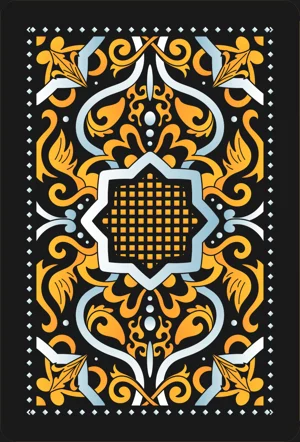
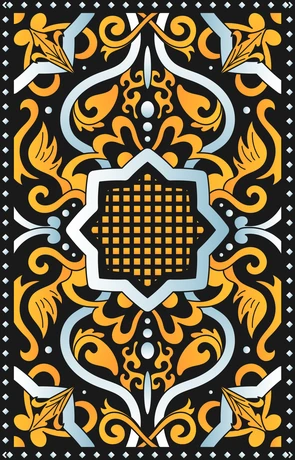
ソリティア: アラベスク黒の模様幅を白に合わせる、キューブ紫→キューブ
Claude-Session: https://claude.ai/code/session_01EiWRAXYbB7FpiyimYy4m7z

diff --git a/solitaire/app.css b/solitaire/app.css
@@ -222,7 +222,7 @@ html[data-back=wave] .bk{background:radial-gradient(circle at 50% 100%,transpare
 html[data-back=red] .bk{background:#fff url(img/back-red.webp) center/90.5% 93.5% no-repeat;box-shadow:0 0 0 1px rgba(0,0,0,.32),0 1px 3px rgba(0,0,0,.3)}
 html[data-back=blue] .bk{background:#fff url(img/back-blue.webp) center/90.5% 93.5% no-repeat;box-shadow:0 0 0 1px rgba(0,0,0,.32),0 1px 3px rgba(0,0,0,.3)}
 html[data-back=ornate] .bk{background:#fff url(img/back-ornate.webp) center/91% 93.5% no-repeat;box-shadow:0 0 0 1px rgba(0,0,0,.32),0 1px 3px rgba(0,0,0,.3)}
-html[data-back=ornateBlack] .bk{background:#1c1c1c url(img/back-ornate-black.webp) center/cover no-repeat;box-shadow:0 0 0 1px rgba(0,0,0,.5),0 1px 3px rgba(0,0,0,.3)}
+html[data-back=ornateBlack] .bk{background:#1c1c1c url(img/back-ornate-black.webp?v=2) center/91% 93.5% no-repeat;box-shadow:0 0 0 1px rgba(0,0,0,.5),0 1px 3px rgba(0,0,0,.3)}
 html[data-back=gangsta] .bk{background:#3a3a3a url(img/back-gangsta.webp) center/86% 90% no-repeat;box-shadow:inset 0 0 0 calc(var(--cw)*.04) #f4f4f2,0 0 0 1px rgba(0,0,0,.45),0 1px 3px rgba(0,0,0,.3)}
 html[data-back=gangsta] .cd .bk::after{display:none}
 html[data-back=floral] .bk{background:#fff url(img/back-floral.webp) center/91% 93.5% no-repeat;box-shadow:0 0 0 1px rgba(0,0,0,.35),0 1px 3px rgba(0,0,0,.3)}

diff --git a/solitaire/index.html b/solitaire/index.html
@@ -11,7 +11,7 @@
 <link rel="preconnect" href="https://fonts.googleapis.com">
 <link rel="preconnect" href="https://fonts.gstatic.com" crossorigin>
 <link href="https://fonts.googleapis.com/css2?family=Cormorant+Garamond:ital,wght@0,600;0,700;1,600&family=Shippori+Mincho+B1:wght@600;800&family=Zen+Kaku+Gothic+New:wght@400;500;700&family=JetBrains+Mono:wght@500;700&family=Bodoni+Moda:opsz,wght@6..96,500;6..96,600;6..96,700&family=Noto+Sans+Devanagari:wght@400;500;700&family=Noto+Sans+Arabic:wght@400;500;700&display=swap" rel="stylesheet">
-<link rel="stylesheet" href="app.css?v=14">
+<link rel="stylesheet" href="app.css?v=15">
 </head>
 <body>
 <svg width="0" height="0" style="position:absolute" aria-hidden="true">
@@ -111,7 +111,7 @@
 <canvas id="winCanvas" class="win-cv hidden"></canvas>
 <div class="toast" id="toast"></div>
 
-<script src="i18n.js?v=9"></script>
+<script src="i18n.js?v=10"></script>
 <script src="variants.js?v=1"></script>
 <script src="solver.js?v=1"></script>
 <script src="../shared/rulesoffer.js?v=8"></script>
